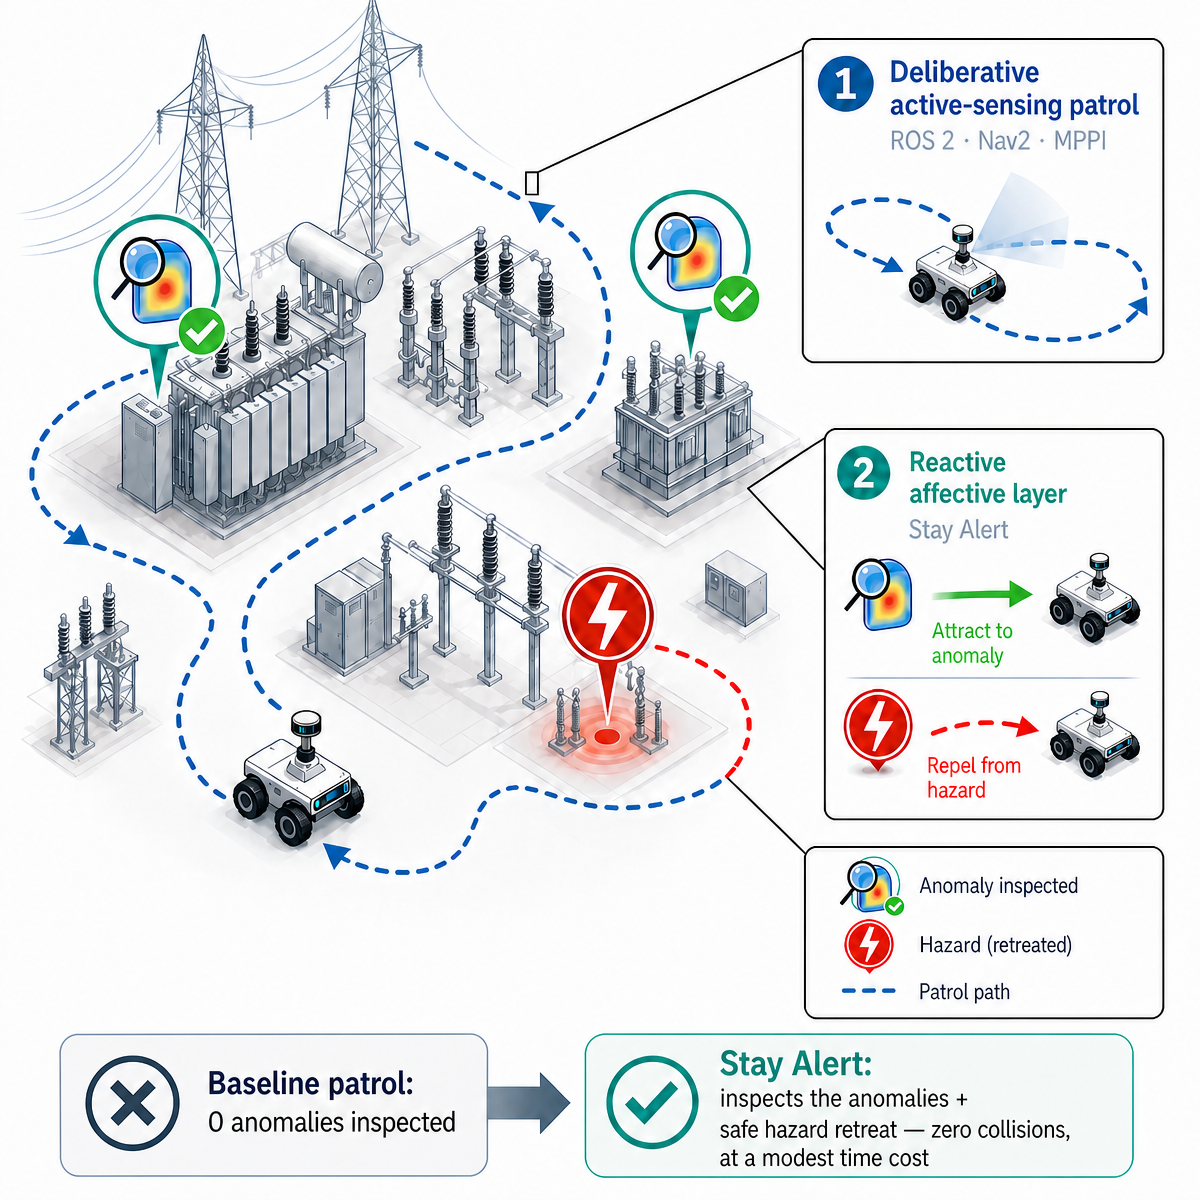
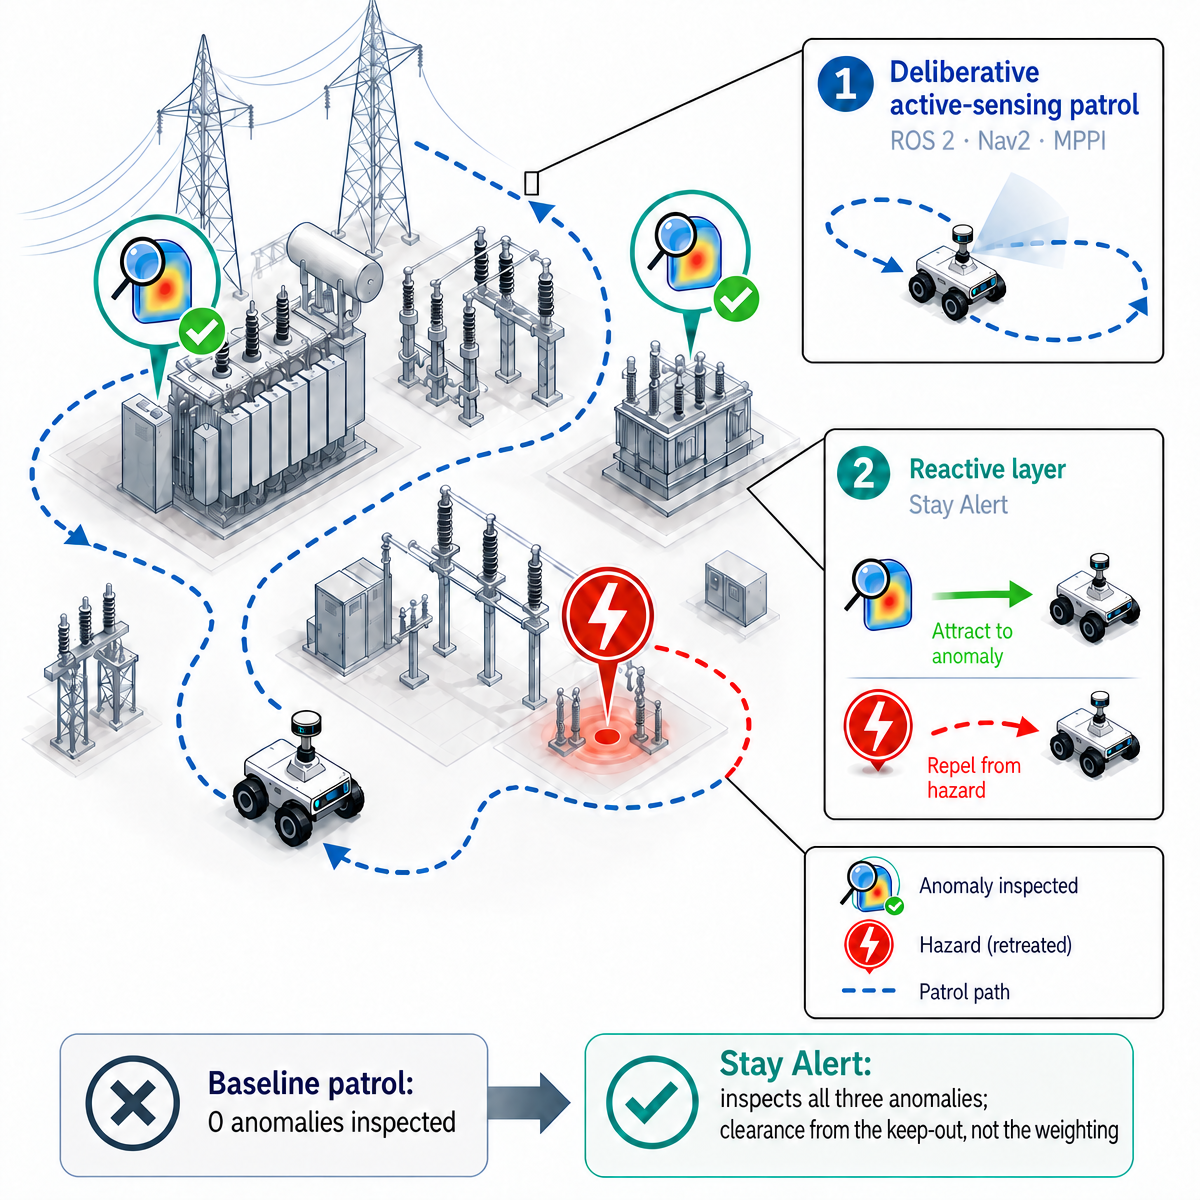
figuras: aplica o reposicionamento nas tres conceituais
As tres voltaram do Illustrae com as alteracoes pedidas em
REFAZER_FIGURAS.md e foram conferidas uma a uma:

- concept_overview: removida a caixa "passive value-update substrate"
  com a equacao Q <- Q + a[...] + nPhi. Nada entra no lugar.
- architecture: removida a caixa "Bellman value update (passive)" e a
  seta tracejada que chegava nela; "Reactive affective - Stay Alert"
  -> "Reactive - Stay Alert"; "Affective field Phi" ->
  "Attraction-repulsion field Phi"; canal do keepout rotulado como
  "keepout channel - carries the clearance result".
- GA: "Reactive affective layer" -> "Reactive layer"; rodape passa de
  "zero collisions" para "inspects all three anomalies; clearance from
  the keep-out, not the weighting". O "zero collisions" saia porque e
  justamente a alegacao que o R2#4 diz nao ser sustentada pela amostra,
  e no GA aparecia sem o bound binomial.

Isso fecha o R3#1/R2#1 na camada que o texto sozinho nao alcancava: um
revisor reabrindo o PDF via a equacao de Bellman em destaque antes de
chegar ao abstract corrigido.

Convertidas para PDF pela skill png-to-pdf (1200x1200 RGBA -> 288x288 pt
@ 300 dpi, alfa achatada sobre branco; cantos conferidos). Os .pdf sao
ignorados pelo .gitignore - o PNG e a fonte, o PDF se regera.

A carta deixa de dizer "are being re-rendered / will be in place" e passa
a registrar que ja foram.

Pendencia cosmetica anotada em REFAZER_FIGURAS.md: a architecture manteve
a altura do painel laranja, sobrando ~14% de faixa vazia no rodape.

diff --git a/docs/artigo/REFAZER_FIGURAS.md b/docs/artigo/REFAZER_FIGURAS.md
@@ -4,6 +4,11 @@ Auditoria de 2026-10-14, após a reescrita. **Três figuras contradizem o
 reposicionamento** e precisam ser re-renderizadas no Illustrae; as demais já foram
 corrigidas ou estão corretas.
 
+> **STATUS 2026-10-16 — CONCLUÍDO.** As três voltaram do Illustrae com todas as
+> alterações aplicadas (inclusive o rótulo opcional do canal de keepout), foram
+> conferidas uma a uma e convertidas para PDF (1200×1200 RGBA → 288×288 pt @ 300 dpi,
+> alfa achatada sobre branco). Pendência cosmética única: ver nota no fim do item 2.
+
 ## Por que isso importa
 
 O R3#1 pede que título, abstract e keywords não prometam um componente de
@@ -42,6 +47,12 @@ e o conceito (ronda ativa + atração/repulsão) fica mais legível.
 
 **Resto:** correto. Manter os blocos deliberativos, o canal `/cmd_vel`, o retorno de
 pose/eventos e a FSM.
+
+> **Nota após a entrega (cosmética, opcional).** A caixa do Bellman saiu, mas o painel
+> laranja manteve a altura: sobrou uma faixa vazia de ~14% da altura no rodapé. Como a
+> figura entra em `\columnwidth`, isso encolhe todo o texto em ~14% sem necessidade.
+> Se quiser pedir um ajuste: *"encurtar o painel laranja para eliminar o espaço vazio
+> abaixo da FSM, mantendo tudo o mais igual"*. Não bloqueia a submissão.
 
 ## 3. `GA.png` (graphical abstract) — REFAZER
 
